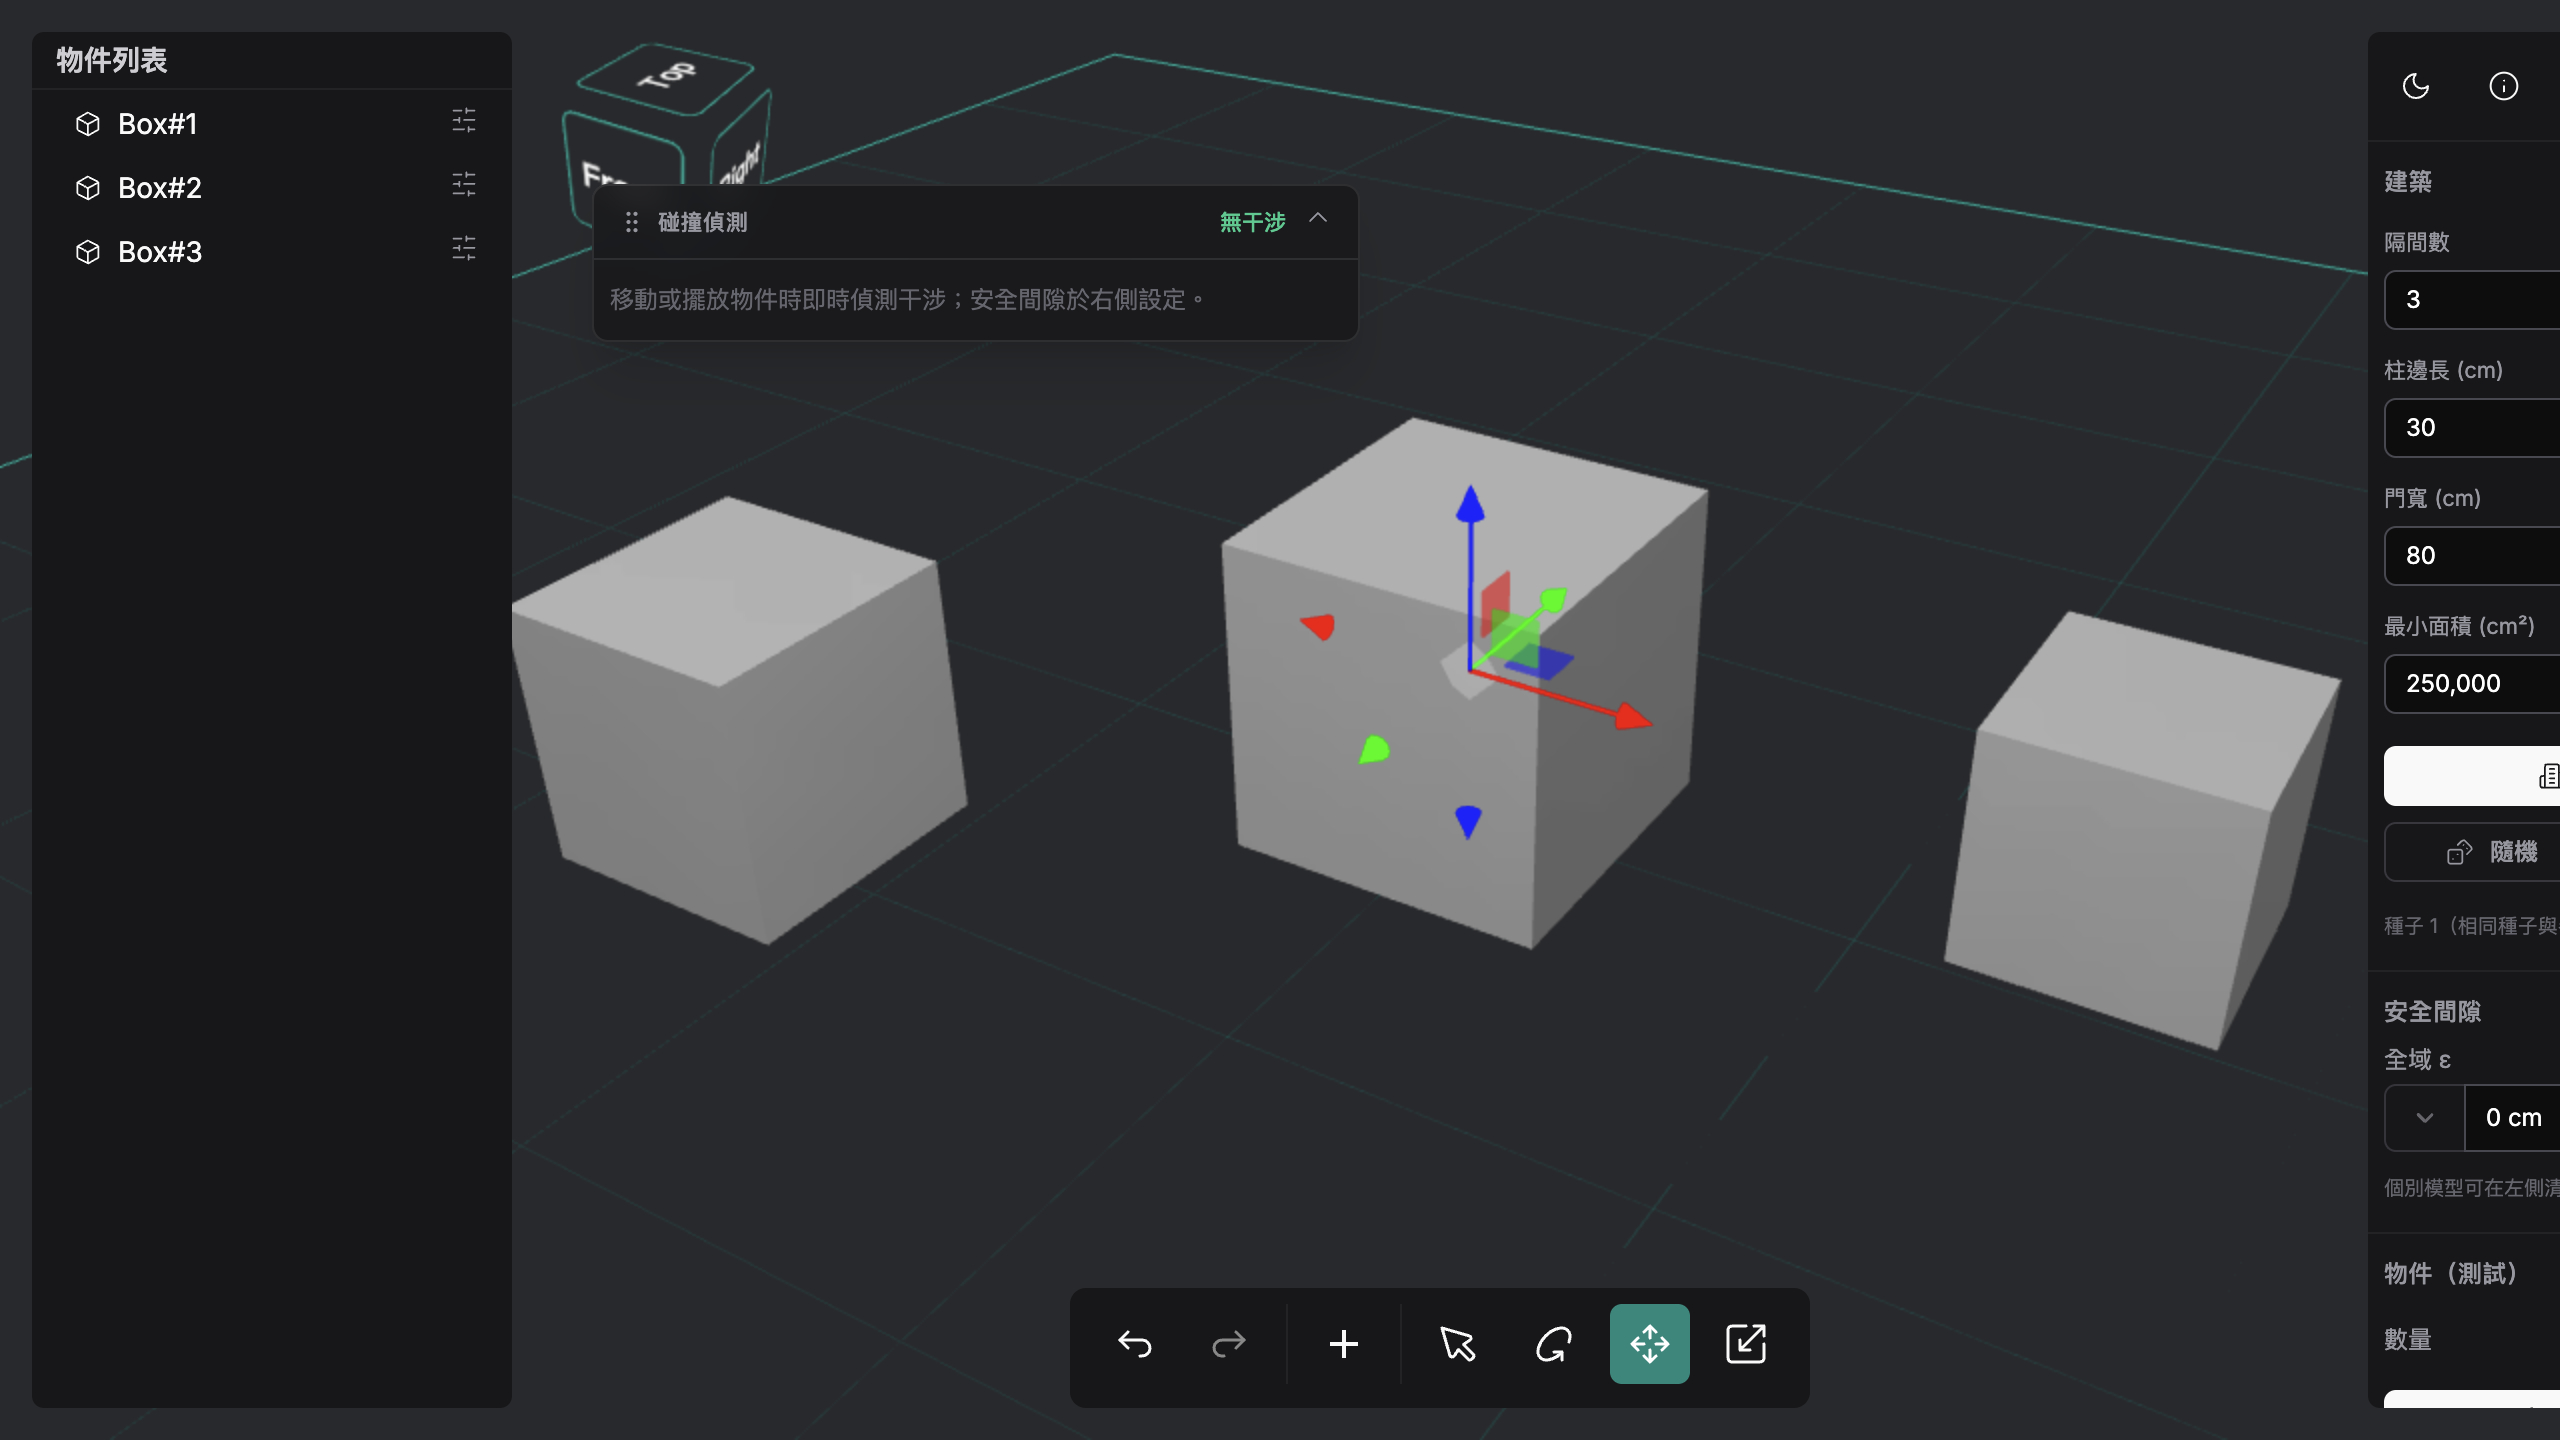
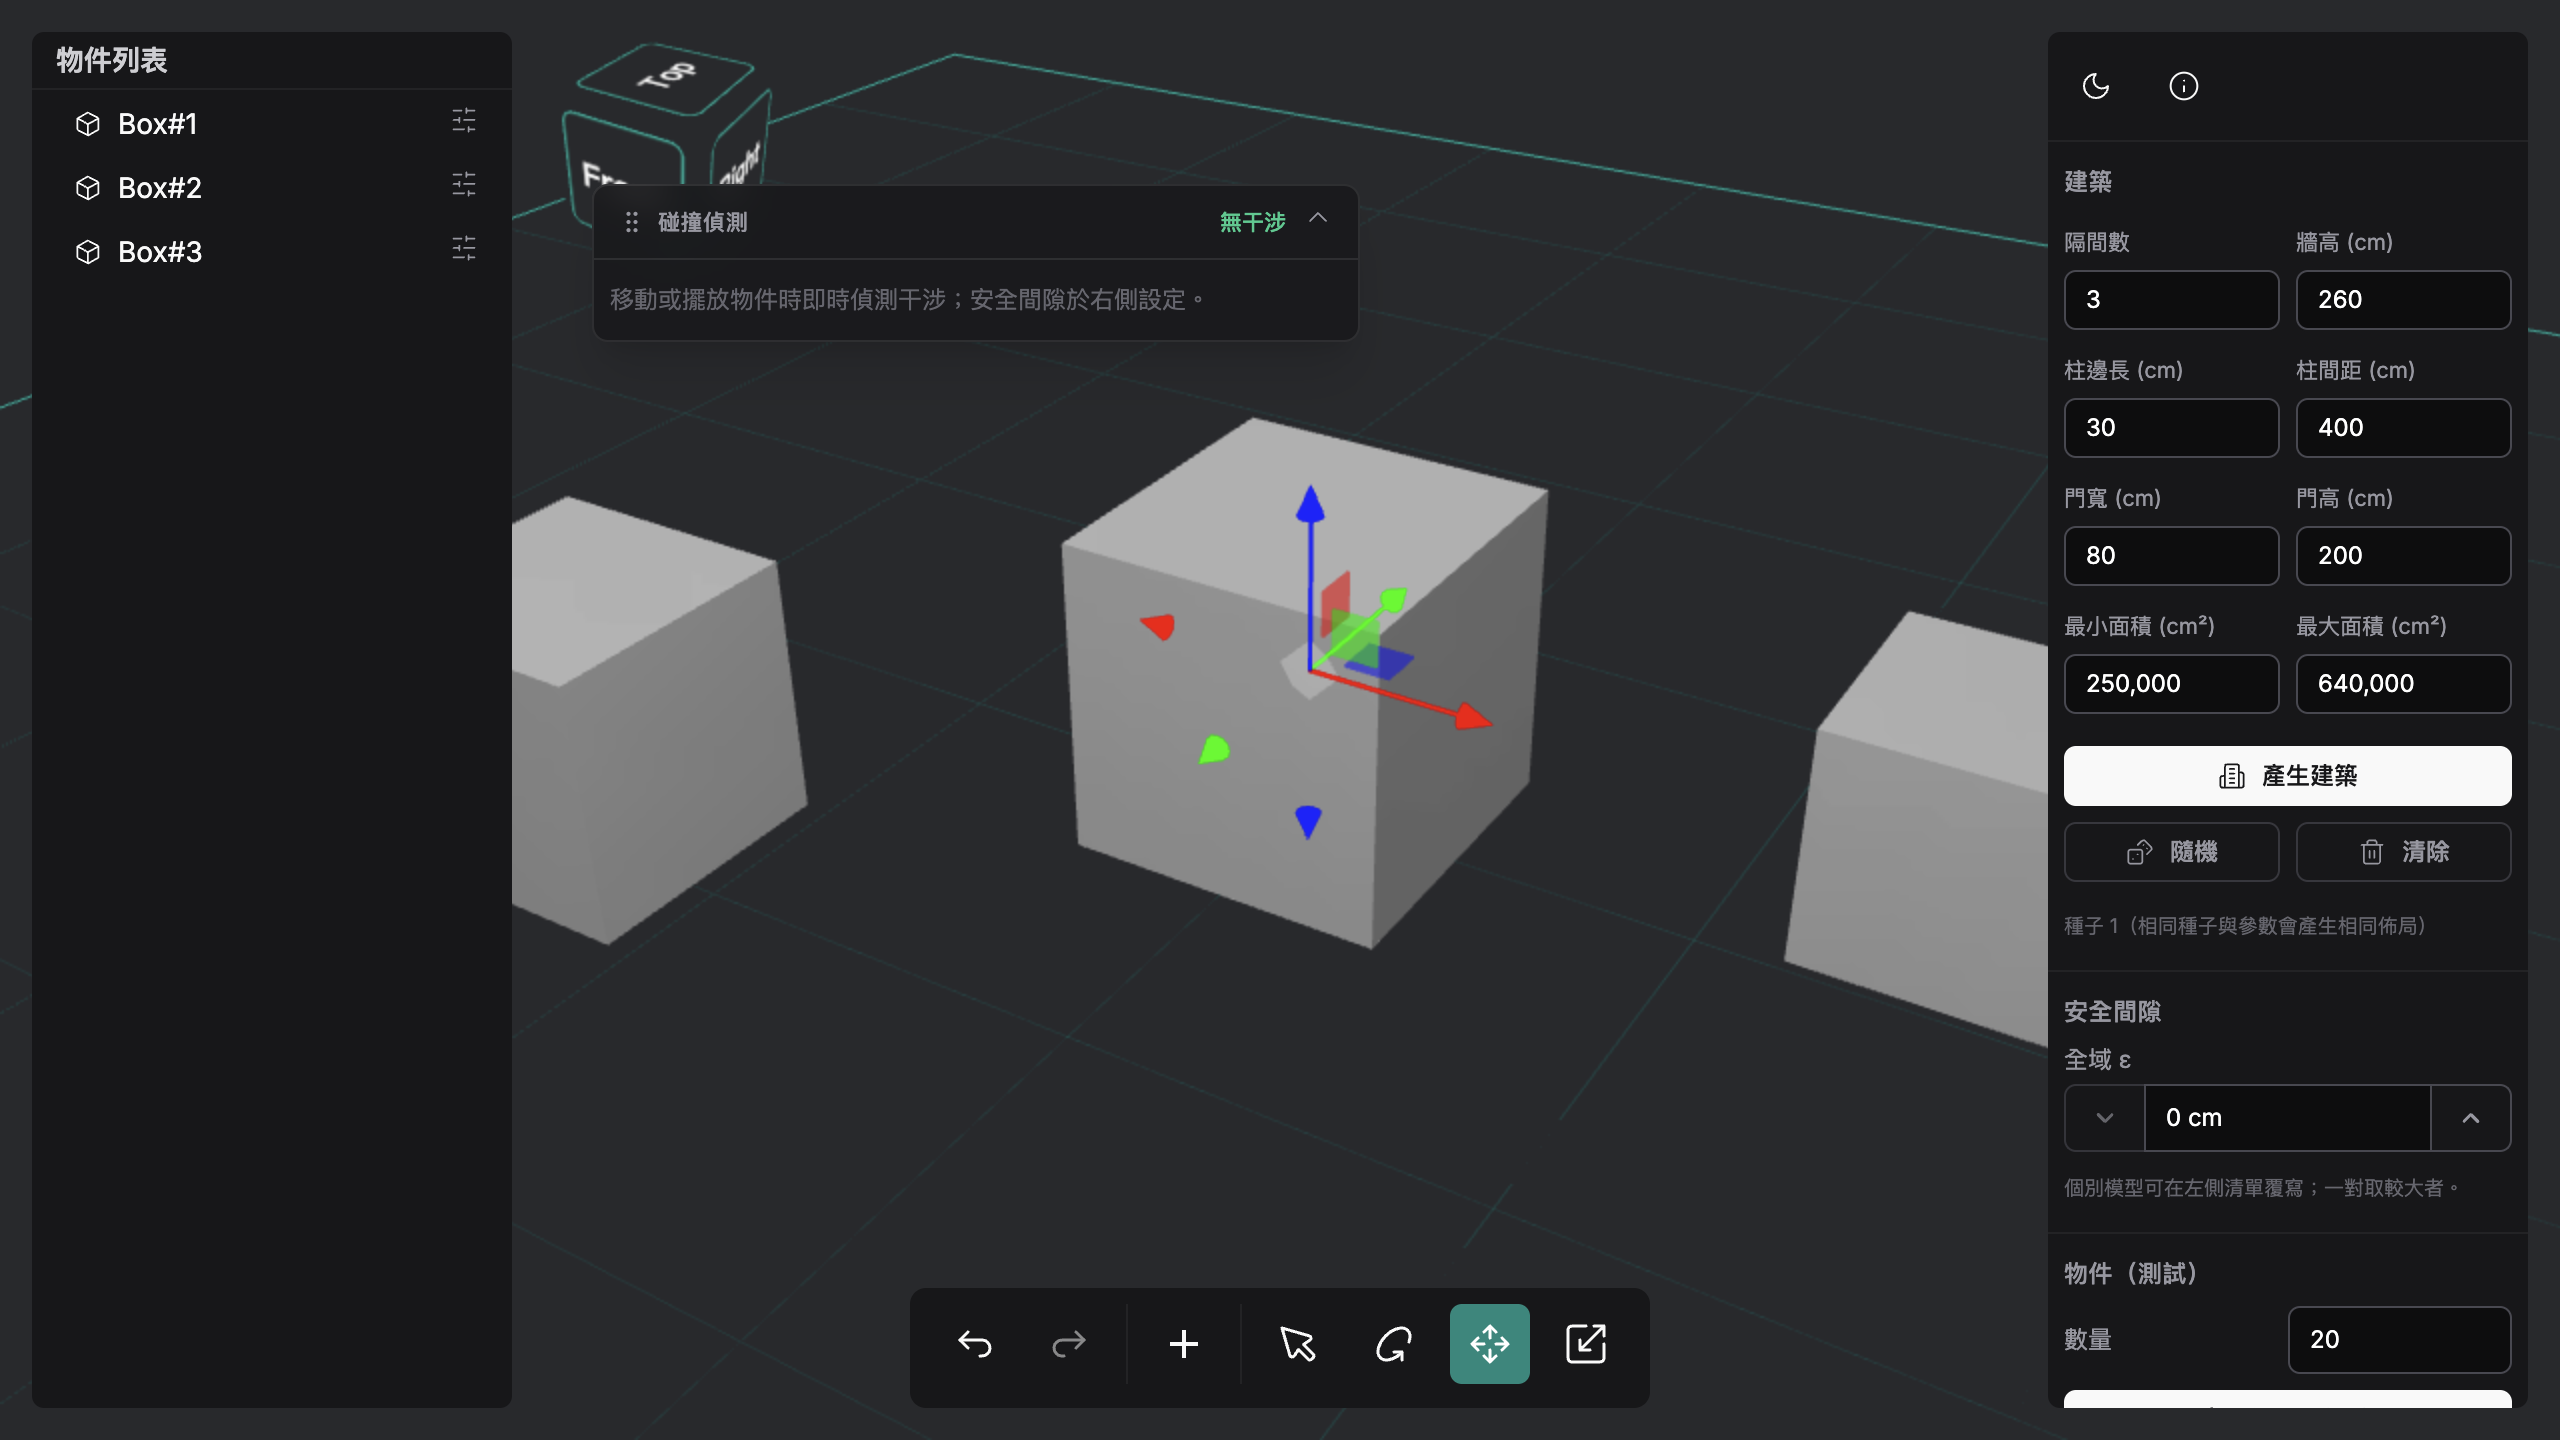
README screenshots: fix right-panel clipping, focus safety-gap on a column
- Re-shoot every screenshot at the 1280×720 capture window so the right-hand
  parameter sidebar is fully in frame (it was sliced off when the layout
  viewport was wider than the headless capture window).
- Safety-gap shot now uses a building + objects scene focused on a near-miss
  against a column (柱), with the collision panel filtered to the 接近 tag.

diff --git a/cypress/e2e/_screenshots.cy.js b/cypress/e2e/_screenshots.cy.js
@@ -5,9 +5,12 @@
 //     --config baseUrl=http://localhost:8766,viewportWidth=1440,viewportHeight=900
 const VIEW = { capture: 'viewport', overwrite: true }
 
+// Viewport must match the headless capture window (1280×720 @2x) so the
+// right-hand parameter sidebar (absolute right-0) lands inside the frame
+// instead of being pushed off the edge by a too-wide layout.
 function boot() {
   cy.on('uncaught:exception', () => false)
-  cy.viewport(1440, 900)
+  cy.viewport(1280, 720)
   cy.visit('/')
   cy.get('canvas', { timeout: 20000 }).should('exist')
   cy.window({ timeout: 20000 }).its('__nexis').should('exist')
@@ -39,18 +42,38 @@ describe('nexis README screenshots', () => {
     cy.screenshot('03-scatter-100', VIEW)
   })
 
-  it('04 safety gap — near-miss within ε (building + objects)', () => {
+  it('04 safety gap — near-miss against a building column', () => {
     boot()
     cy.window().then((win) => {
       const api = win.__nexis
       api.generateBuilding({ seed: 7 })
-      api.scatterRandomObjects(45)
-      api.setCollisionTolerance(25) // generous ε → many pairs flagged "接近" (yellow)
+      api.scatterRandomObjects(16) // context objects elsewhere in the building
+      // Find the most central column and drop a box ~10 cm beside it (a clean,
+      // framed near-miss against a 柱) instead of relying on the random scatter.
+      const scene = api.getScene()
+      scene.updateMatrixWorld(true)
+      const cols = []
+      scene.traverse((o) => {
+        if (o.isMesh && o.userData?.buildingPart === 'column') {
+          const m = o.matrixWorld.elements
+          cols.push({ x: m[12], y: m[13], z: m[14] })
+        }
+      })
+      const col = cols.sort((a, b) => (a.x * a.x + a.y * a.y) - (b.x * b.x + b.y * b.y))[0]
+      const box = api.addShape('Box', { width: 20, height: 20, depth: 20 })
+      api.updatePosition({ x: col.x + 35, y: col.y, z: box.position.z }, box) // gap ~10 cm
+      api.setCollisionTolerance(15) // 10 < 15 → "接近"
       api.checkCollisions()
+      const fx = col.x + 17
+      api.restoreCamera({
+        position: { x: fx + 150, y: col.y - 235, z: 205 },
+        target: { x: fx, y: col.y, z: 40 },
+      })
       api.render()
     })
-    cy.contains('接近', { timeout: 12000 }).should('be.visible')
-    cy.wait(1500)
+    // Select the "接近" filter tag so the panel lists only near-miss pairs.
+    cy.contains('button', '接近', { timeout: 12000 }).click()
+    cy.wait(1200)
     cy.screenshot('04-safety-gap', VIEW)
   })
 

diff --git a/README.md b/README.md
@@ -43,9 +43,9 @@
 
 ### 安全間隙 ε 與接近偵測
 
-![安全間隙接近偵測](screenshots/safety-gap.png)
+![安全間隙：物件與柱子的接近偵測](screenshots/safety-gap.png)
 
-右側「安全間隙」設定**全域 ε**（上圖 = 5 cm）；個別物件可在左側清單覆寫，一對取較大者。兩物件雖未相交，但間距小於 ε 時標為**接近（黃）**，並畫出兩者的**最近點連線**與實際間隙（上圖 = 3.00 cm）。ε 設為 0 則只偵測真正相交。
+右側「安全間隙」設定**全域 ε**（上圖 = 15 cm）；個別物件可在左側清單覆寫，一對取較大者。物件雖未相交，但間距小於 ε 時標為**接近（黃）**，並畫出兩者的**最近點連線**。上圖聚焦一個物件與建築**柱子**的接近（間隙 10 cm），碰撞面板已切到「**接近**」分類，可見物件 vs 柱、物件 vs 物件的近接配對。ε 設為 0 則只偵測真正相交。
 
 ### 量化大小：AABB 近似 → CSG 精確體積
 
